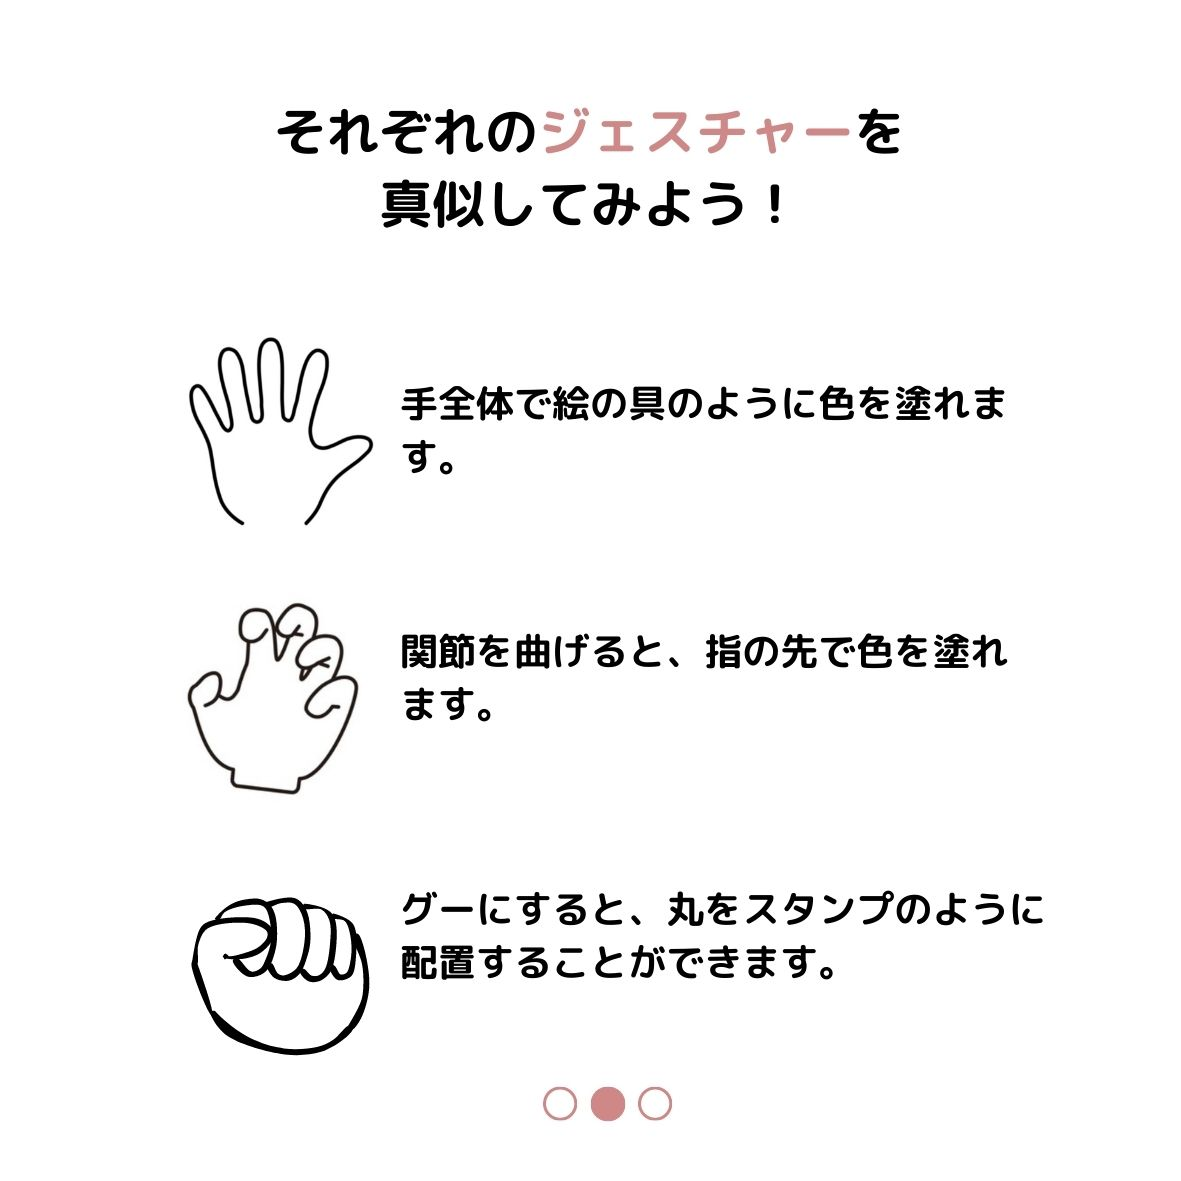
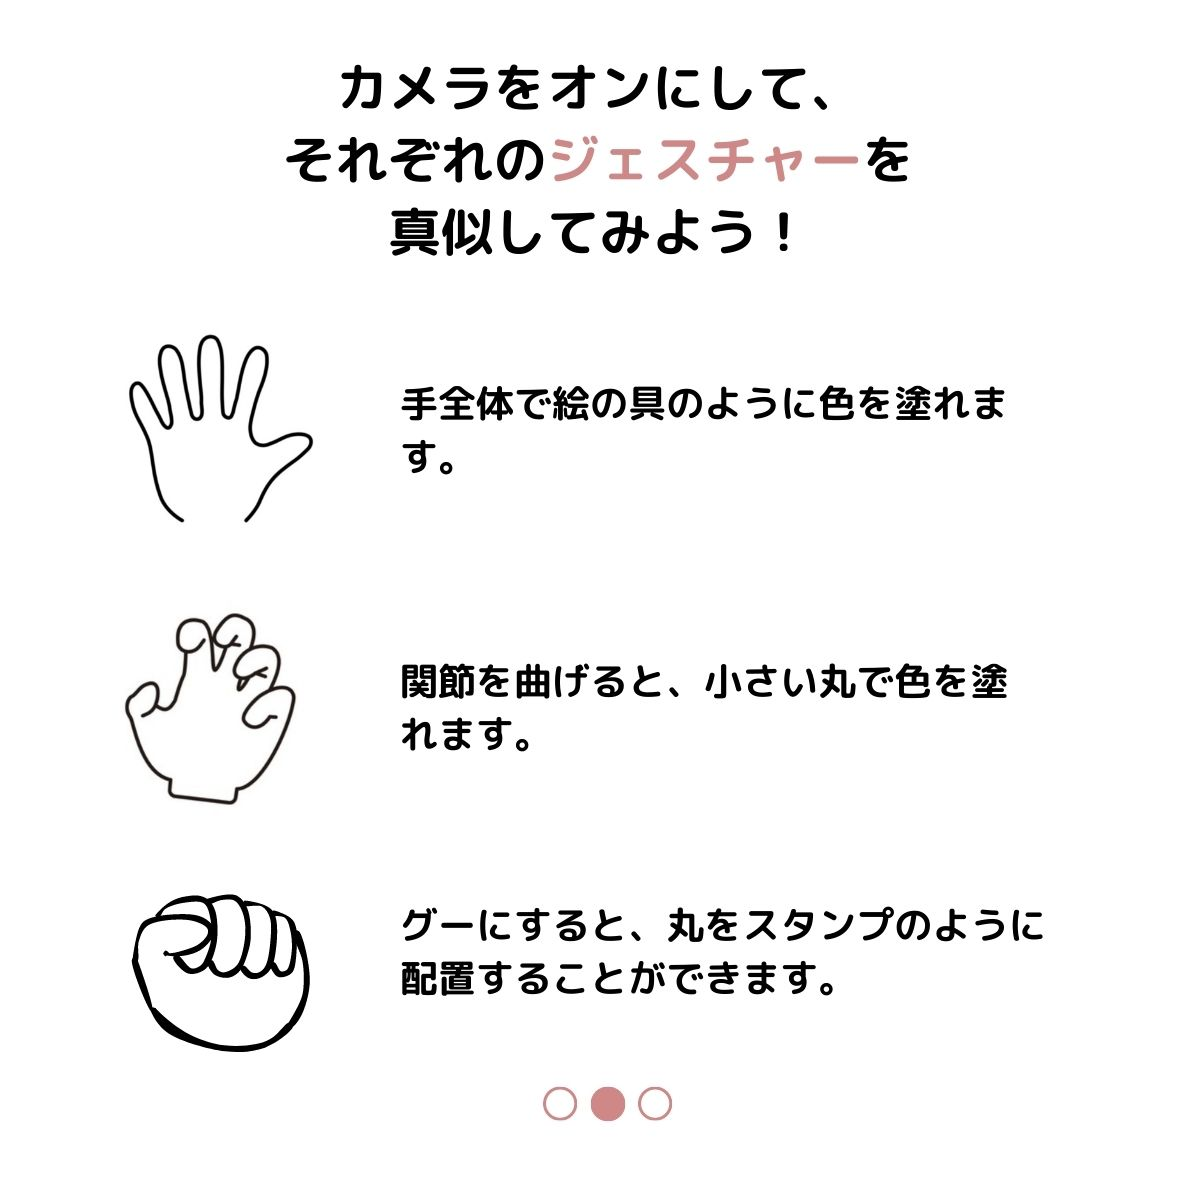
スワイプ

diff --git a/docs/js/sketch.js b/docs/js/sketch.js
@@ -82,7 +82,7 @@ function drawTitleScreen() {
     image(img3, 0, 0, width, height);
   }
 }
-function mouseClicked() {
+function touchMoved() {
   // Increment the currentImage counter when the mouse is clicked
   currentImage++;
   
@@ -90,6 +90,8 @@ function mouseClicked() {
   if (currentImage > 3) {
     currentImage = 1;
   }
+  // スワイプ時のデフォルトのスクロール動作を防止
+  return false;
 }
 
 function drawGame() {
